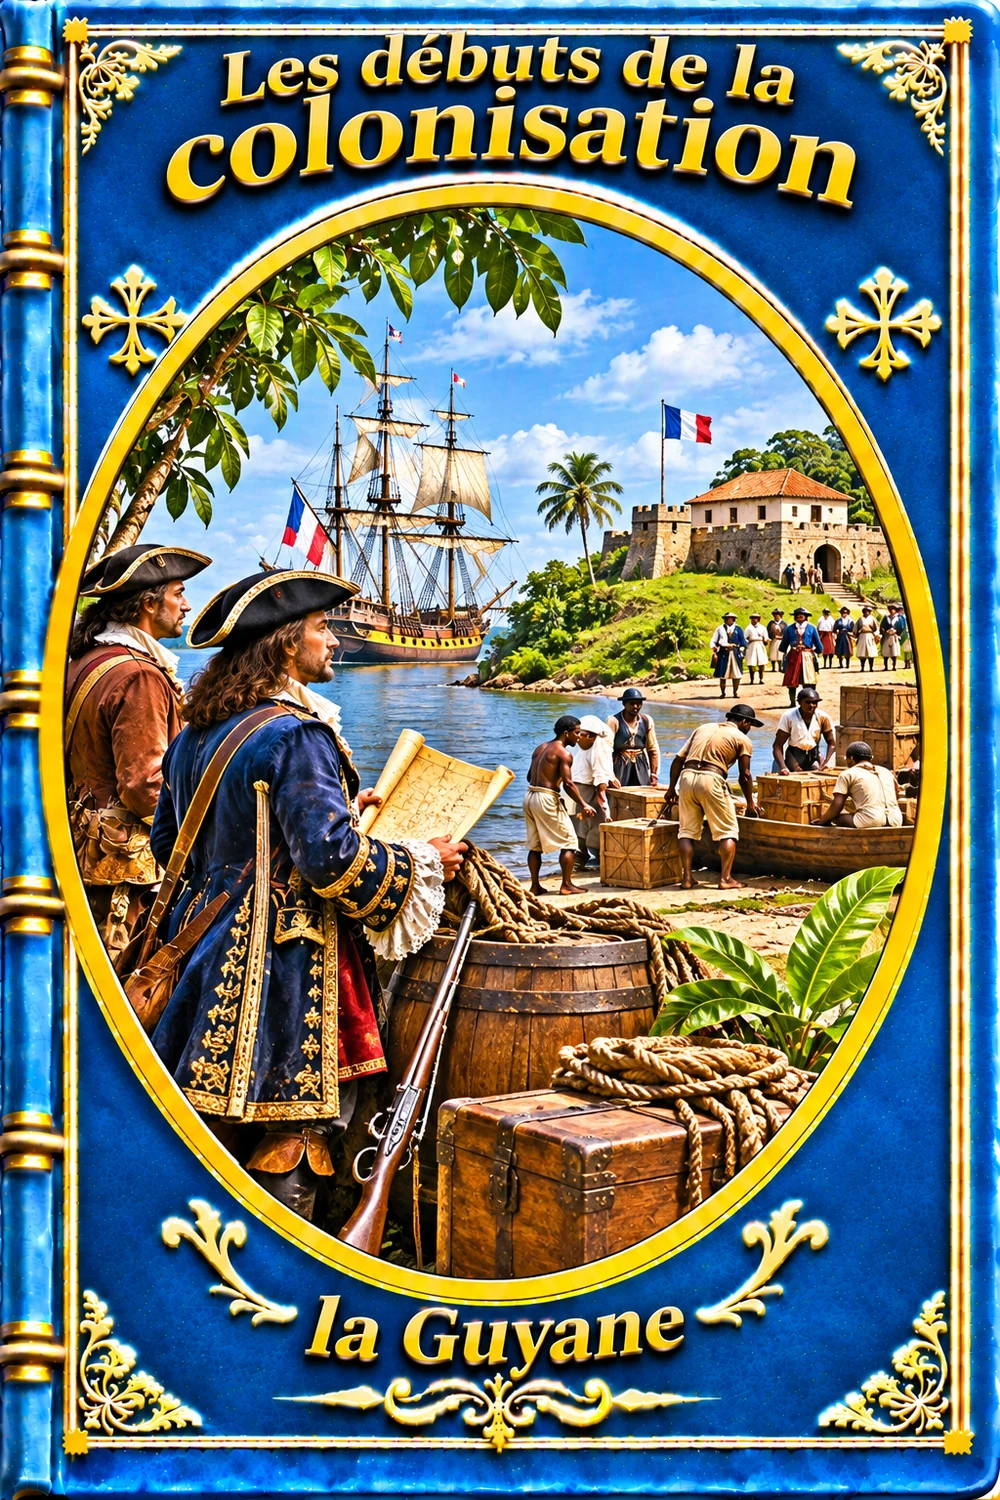
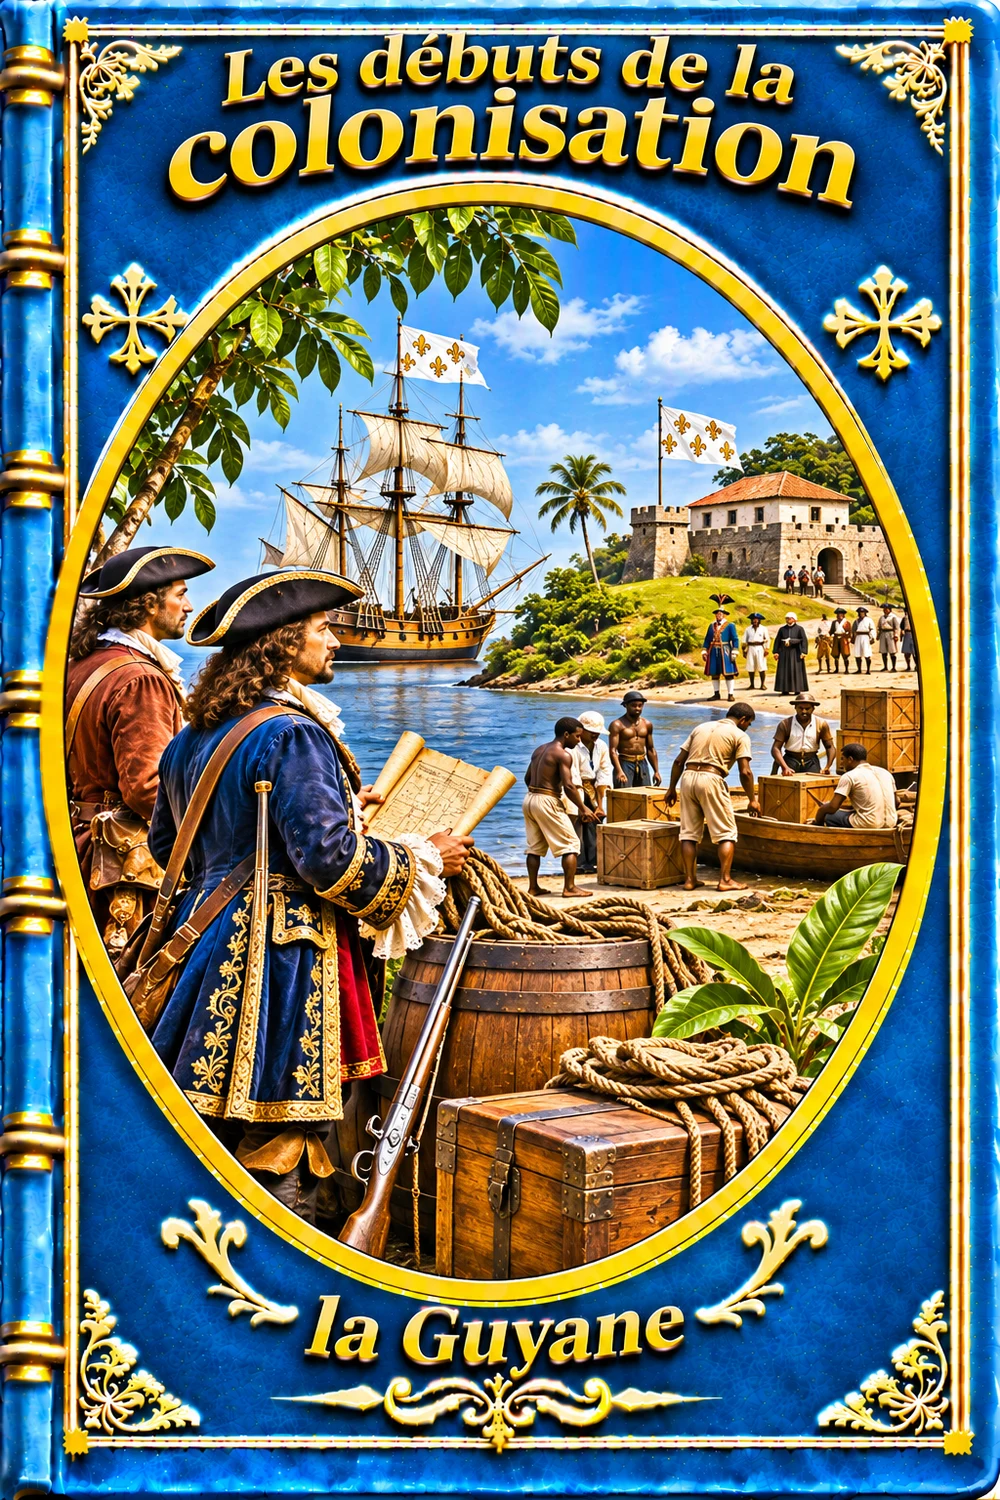
Guyane : couvertures retouchées (bagne, colonisation)
Claude-Session: https://claude.ai/code/session_01HgJSWxnu3UTd7Eo3ecR1Re

diff --git a/regions/guyane/liste-livres.js b/regions/guyane/liste-livres.js
@@ -16,10 +16,10 @@ AME.ajouterLivres("guyane", [
   { titre: "La Guyane à la loupe", sousTitre: "L'Amazonie française en chiffres, en cartes et en histoire", page: "guyane-info.html", couverture: "images/couvertures/guyane-info.webp?v=20261119c", couleur: "#2771AA" },
   { titre: "Recettes salées & sucrées", sousTitre: "Saveurs créoles et amazoniennes de Guyane", page: "recettes-guyane.html", couverture: "images/couvertures/recettes-guyane.webp?v=20261119c", couleur: "#2877B1" },
   { titre: "Les peuples amérindiens", sousTitre: "Kali'na, Lokono, Palikur, Wayana, Wayampi et Teko", page: "peuples-amerindiens.html", couverture: "images/couvertures/peuples-amerindiens.webp?v=20261119c", couleur: "#2372A3" },
-  { titre: "Les débuts de la colonisation", sousTitre: "De Cayenne (1643) à l'expédition de Kourou (1763)", page: "debuts-colonisation.html", couverture: "images/couvertures/debuts-colonisation.webp?v=20261119c", couleur: "#2F7FB9" },
+  { titre: "Les débuts de la colonisation", sousTitre: "De Cayenne (1643) à l'expédition de Kourou (1763)", page: "debuts-colonisation.html", couverture: "images/couvertures/debuts-colonisation.webp?v=20261119d", couleur: "#2C82B9" },
   { titre: "Esclavage, marronnage et abolition", sousTitre: "Les Bushinengés et la liberté de 1848", page: "esclavage-marronnage.html", couverture: "images/couvertures/esclavage-marronnage.webp?v=20261119c", couleur: "#2675AE" },
   { titre: "La ruée vers l'or (1855)", sousTitre: "Orpailleurs, placers et pays contesté", page: "ruee-or.html", couverture: "images/couvertures/ruee-or.webp?v=20261119c", couleur: "#2672AB" },
-  { titre: "Le bagne de Guyane (1852-1953)", sousTitre: "Saint-Laurent-du-Maroni et les îles du Salut", page: "bagne.html", couverture: "images/couvertures/bagne.webp?v=20261119c", couleur: "#2670AA" },
+  { titre: "Le bagne de Guyane (1852-1953)", sousTitre: "Saint-Laurent-du-Maroni et les îles du Salut", page: "bagne.html", couverture: "images/couvertures/bagne.webp?v=20261119d", couleur: "#2974AE" },
   { titre: "Le XXᵉ siècle en Guyane", sousTitre: "De Félix Éboué à la départementalisation", page: "xxe-siecle.html", couverture: "images/couvertures/xxe-siecle.webp?v=20261119c", couleur: "#2C7BB5" },
   { titre: "Le Centre spatial guyanais", sousTitre: "De Véronique (1968) à Ariane", page: "centre-spatial.html", couverture: "images/couvertures/centre-spatial.webp?v=20261119c", couleur: "#2872AF" },
   { titre: "La forêt amazonienne et le Parc amazonien", sousTitre: "Le plus grand parc national de France", page: "foret-parc.html", couverture: "images/couvertures/foret-parc.webp?v=20261119c", couleur: "#2D7DB8" },

diff --git a/regions/guyane/debuts-colonisation.html b/regions/guyane/debuts-colonisation.html
@@ -9,7 +9,7 @@
   <link href="https://fonts.googleapis.com/css2?family=Playfair+Display:ital,wght@0,400;0,700;1,400&family=Source+Sans+3:wght@400;500;600&display=swap" rel="stylesheet" />
 </head>
 <!-- Couverture du livre (image rangée dans images/couvertures/), couleur du cuir et retour à la bibliothèque -->
-<body data-livre-cuir="#2F7FB9" class="produit-page" data-livre-couverture="images/couvertures/debuts-colonisation.webp?v=20261119c" data-livre-retour="bibliotheque.html">
+<body data-livre-cuir="#2C82B9" class="produit-page" data-livre-couverture="images/couvertures/debuts-colonisation.webp?v=20261119d" data-livre-retour="bibliotheque.html">
 <div class="produit-body"><div class="container"><div class="produit-layout"><div>
 <!-- ═════════ UNE COLONIE DIFFICILE ═════════ -->
 <section class="section" id="presentation"><h2 class="section-titre"><div class="section-titre-icon">📖</div>Une colonie difficile</h2><div class="histoire-texte"><p><strong>En 1643, des colons français fondent Cayenne sur une colline au bord de la mer. Pendant plus d'un siècle, la colonie de Guyane connaît échecs, guerres et catastrophes : attaques amérindiennes, occupations hollandaises, anglaises et portugaises, épidémies.</strong></p><p>Le désastre le plus célèbre est l'expédition de Kourou, en 1763 : des milliers de colons envoyés par le roi meurent en quelques mois. La Guyane gardera longtemps la réputation d'une « terre de mort » pour les Européens.</p><p>Ce livre raconte les premiers voyageurs, le mythe de l'Eldorado, la fondation de Cayenne, les rivalités entre puissances européennes, les jésuites, les habitations, l'expédition de Kourou et les déportés de la Révolution.</p><div class="repere-grid"><div class="repere"><strong>1643</strong><span>fondation de Cayenne.</span></div><div class="repere"><strong>1664</strong><span>Cayenne redevient française.</span></div><div class="repere"><strong>1763</strong><span>expédition de Kourou.</span></div><div class="repere"><strong>Plus de la moitié</strong><span>des colons de 1763 meurent.</span></div></div></div></section>

diff --git a/regions/guyane/bagne.html b/regions/guyane/bagne.html
@@ -9,7 +9,7 @@
   <link href="https://fonts.googleapis.com/css2?family=Playfair+Display:ital,wght@0,400;0,700;1,400&family=Source+Sans+3:wght@400;500;600&display=swap" rel="stylesheet" />
 </head>
 <!-- Couverture du livre (image rangée dans images/couvertures/), couleur du cuir et retour à la bibliothèque -->
-<body data-livre-cuir="#2670AA" class="produit-page" data-livre-couverture="images/couvertures/bagne.webp?v=20261119c" data-livre-retour="bibliotheque.html">
+<body data-livre-cuir="#2974AE" class="produit-page" data-livre-couverture="images/couvertures/bagne.webp?v=20261119d" data-livre-retour="bibliotheque.html">
 <div class="produit-body"><div class="container"><div class="produit-layout"><div>
 <!-- ═════════ LA « GUILLOTINE SÈCHE » ═════════ -->
 <section class="section" id="presentation"><h2 class="section-titre"><div class="section-titre-icon">📖</div>La « guillotine sèche »</h2><div class="histoire-texte"><p><strong>Pendant un siècle, de 1852 à 1953, la France a envoyé en Guyane des dizaines de milliers de condamnés : c'est le bagne. Ils y subissent des travaux forcés, dans des conditions si terribles que beaucoup meurent rapidement.</strong></p><p>Les noms de Saint-Laurent-du-Maroni, des îles du Salut, de l'île du Diable sont devenus célèbres dans le monde entier. Le journaliste Albert Londres a dénoncé ce « bagne » qui détruisait les hommes sans les corriger.</p><p>Ce livre raconte pourquoi la France crée le bagne, l'arrivée des forçats, les différents lieux, la vie des bagnards, les prisonniers célèbres comme Dreyfus, les évasions, la campagne d'Albert Londres et la fermeture du bagne.</p><div class="repere-grid"><div class="repere"><strong>1852</strong><span>premiers forçats.</span></div><div class="repere"><strong>≈ 70 000</strong><span>condamnés envoyés en Guyane.</span></div><div class="repere"><strong>1938</strong><span>fin des envois.</span></div><div class="repere"><strong>1953</strong><span>derniers rapatriements.</span></div></div></div></section>
